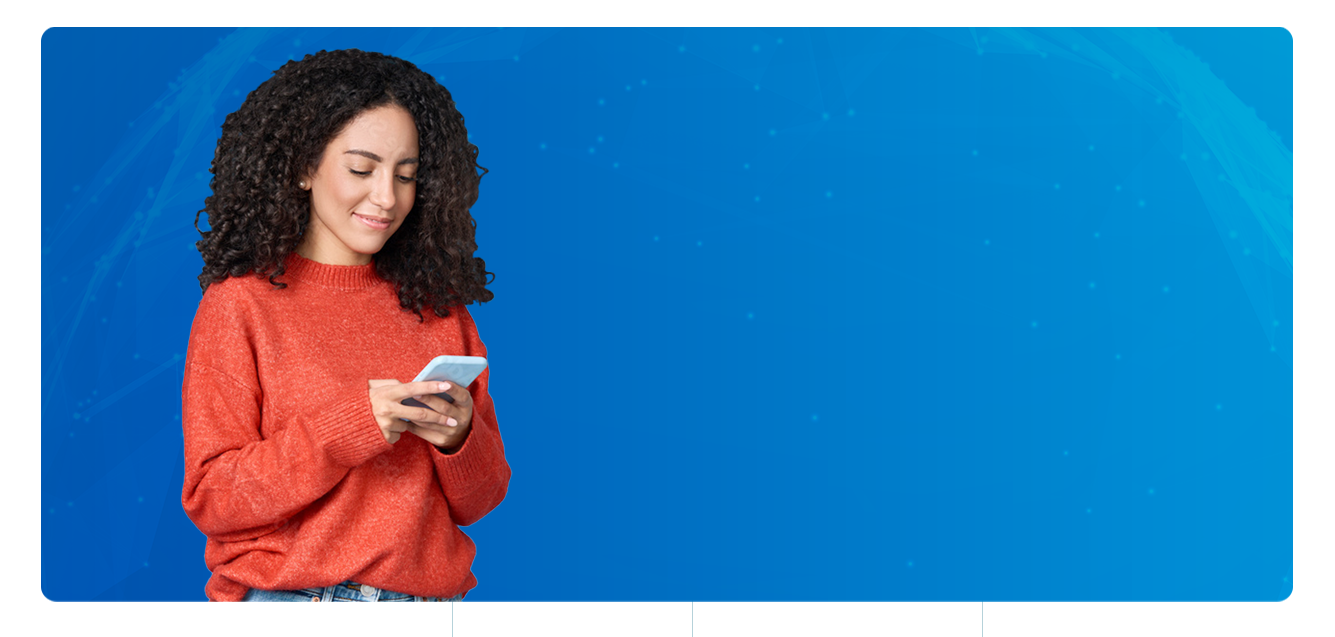
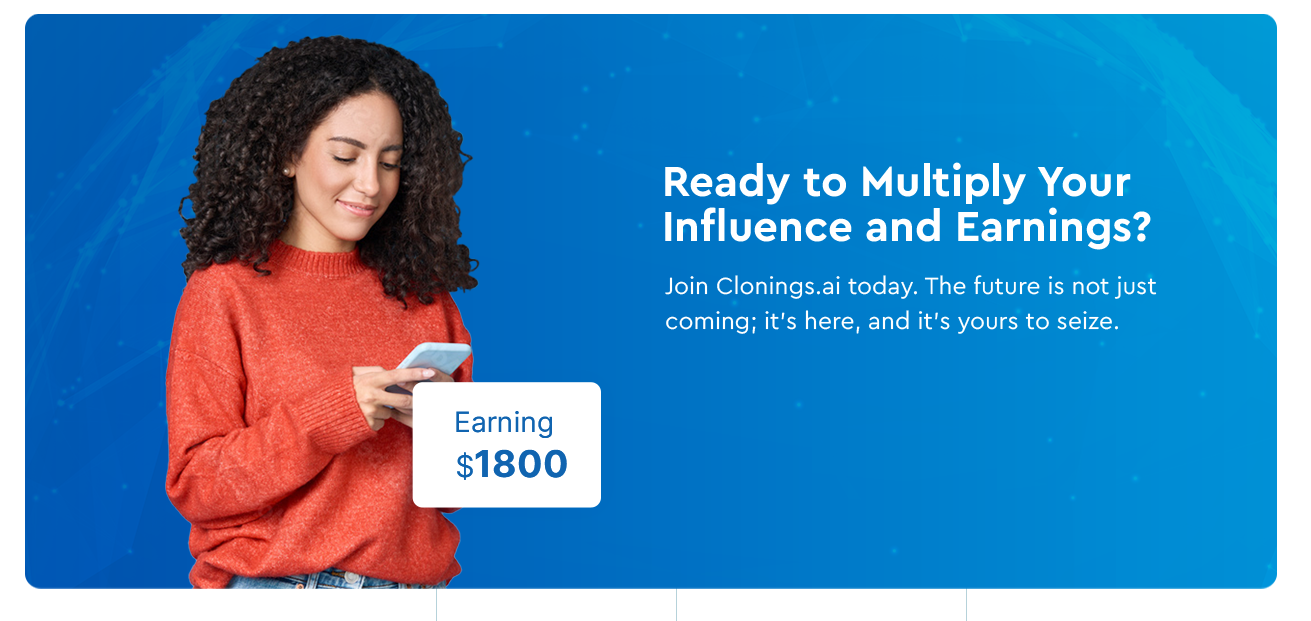
update

Changed region(s): [[0.0, 0.0, 0.9764, 0.9485], [0.4882, 0.2448, 0.8848, 0.3977], [0.5187, 0.4283, 0.8848, 0.5507]]

diff --git a/client/src/pages/LandingPage/SectionHowItWorks.tsx b/client/src/pages/LandingPage/SectionHowItWorks.tsx
@@ -1,18 +1,5 @@
-import { Box, Center, Circle, HStack, Heading, Text, VStack } from "@chakra-ui/react";
-
-const LineWithDot = ({ isTextAbove = false }) => (
-    <Center height={isTextAbove ? "40px" : "70px"} position="relative">
-        <Box position="absolute" width="2px" height="70px" bgColor="primary" transform="translateX(-50%)" />
-        <Circle
-            position="absolute"
-            size="20px"
-            bgColor="primary"
-            top={isTextAbove ? "-50%" : "100%"}
-            left="50%"
-            transform="translate(-50%, -50%)"
-        />
-    </Center>
-);
+import { Box, Circle, HStack, Heading, Text, VStack } from "@chakra-ui/react";
+import LineWithDot from "./Components/LineWithDot";
 
 interface StepProps {
     number: string;
@@ -27,26 +14,26 @@ const Step: React.FC<StepProps> = ({ number, title, description, isTextAbove }) 
             {isTextAbove && (
                 <>
                     <VStack pb="50px">
-                        <Text fontSize="18px" color="primary" fontWeight="600">
+                        <Text fontSize="20px" color="primary" fontWeight="600" textAlign="center">
                             {title}
                         </Text>
                         <Text color="primary" textAlign="center">
                             {description}
                         </Text>
                     </VStack>
-                    <LineWithDot isTextAbove />
+                    <LineWithDot isDotAbove />
                 </>
             )}
         </Box>
-        <Circle size="150px" bg="primary" color="highlighted" position="relative" zIndex="2">
+        <Circle size="150px" bg="primary" color="highlighted" zIndex="2">
             <Text fontSize="80px">{number}</Text>
         </Circle>
-        <Box height="200px" position="relative" width="100%">
+        <Box height="200px">
             {!isTextAbove && (
                 <>
                     <LineWithDot />
                     <VStack pt="15px">
-                        <Text fontSize="18px" color="primary" fontWeight="600">
+                        <Text fontSize="20px" color="primary" fontWeight="600" textAlign="center">
                             {title}
                         </Text>
                         <Text color="primary" textAlign="center">
@@ -72,7 +59,7 @@ const SectionHowItWorks = () => (
         <Heading as="h2" size="xl" color="primary" fontWeight="600" mb="50px" textAlign="center">
             How it Works
         </Heading>
-        <HStack maxWidth="100%" align="stretch">
+        <HStack maxWidth="100%" display={{ base: "none", md: "flex" }}>
             <Step number="1" title="Create Your Account" description="Jumpstart your journey with just a few clicks." />
             <Step
                 number="2"

diff --git a/client/src/pages/LandingPage/SectionGetStarted.tsx b/client/src/pages/LandingPage/SectionGetStarted.tsx
@@ -1,51 +1,18 @@
-import { Box, Button, Flex, Heading, Image, Text, VStack } from "@chakra-ui/react";
+import { Box, Button, Flex, Image } from "@chakra-ui/react";
 
 const SectionGetStarted = () => {
     return (
-        <Box position="relative" width="80%">
+        <Box position="relative" width={{ base: "100%", md: "80%" }} margin="0 auto">
             <Image src="/images/Banner.png" width="100%" />
-
-            <Flex
-                position="absolute"
-                top="0"
-                left="400px"
-                right="0"
-                bottom="0"
-                flexDirection="column"
-                justifyContent="center"
-                alignItems="center"
-                color="primary"
-            >
-                <Box maxW="650px">
-                    <Heading mb="30px" size="2xl">
-                        Ready to Multiply Your Influence and Earnings?
-                    </Heading>
-                    <Text fontSize="xl" mb="40px">
-                        Join Clonings.ai today. The future is not just coming; it's here, and it's yours to seize.
-                    </Text>
-                    <Button color="primaryButtonText" _hover={{ bg: "none" }} variant="outline" size="lg">
-                        GET STARTED
-                    </Button>
-                </Box>
-
-                <Box
-                    position="absolute"
-                    left="-100px"
-                    bottom="50px"
-                    bg="primary"
-                    borderRadius="lg"
-                    p="20px"
-                    color="highlightedTextTercer"
-                    fontWeight="700"
-                    boxShadow="lg"
+            <Flex position="absolute" top="70%" left="70%" transform="translate(-50%, -50%)" color="primary">
+                <Button
+                    color="primaryButtonText"
+                    _hover={{ bg: "highlighted" }}
+                    variant="outline"
+                    size={{ base: "sm", md: "lg" }}
                 >
-                    <VStack align="flex-start">
-                        <Text>Earning</Text>
-                        <Text as="span" fontSize="2xl">
-                            $1800
-                        </Text>
-                    </VStack>
-                </Box>
+                    GET STARTED
+                </Button>
             </Flex>
         </Box>
     );

diff --git a/client/src/pages/LandingPage/Components/LineWithDot.tsx b/client/src/pages/LandingPage/Components/LineWithDot.tsx
@@ -1,0 +1,17 @@
+import { Box, Center, Circle } from "@chakra-ui/react";
+
+const LineWithDot = ({ isDotAbove = false }) => (
+    <Center height={isDotAbove ? "40px" : "70px"} position="relative">
+        <Box position="absolute" width="2px" height="70px" bgColor="primary" transform="translateX(-50%)" />
+        <Circle
+            position="absolute"
+            size="20px"
+            bgColor="primary"
+            top={isDotAbove ? "-50%" : "100%"}
+            left="50%"
+            transform="translate(-50%, -50%)"
+        />
+    </Center>
+);
+
+export default LineWithDot;
